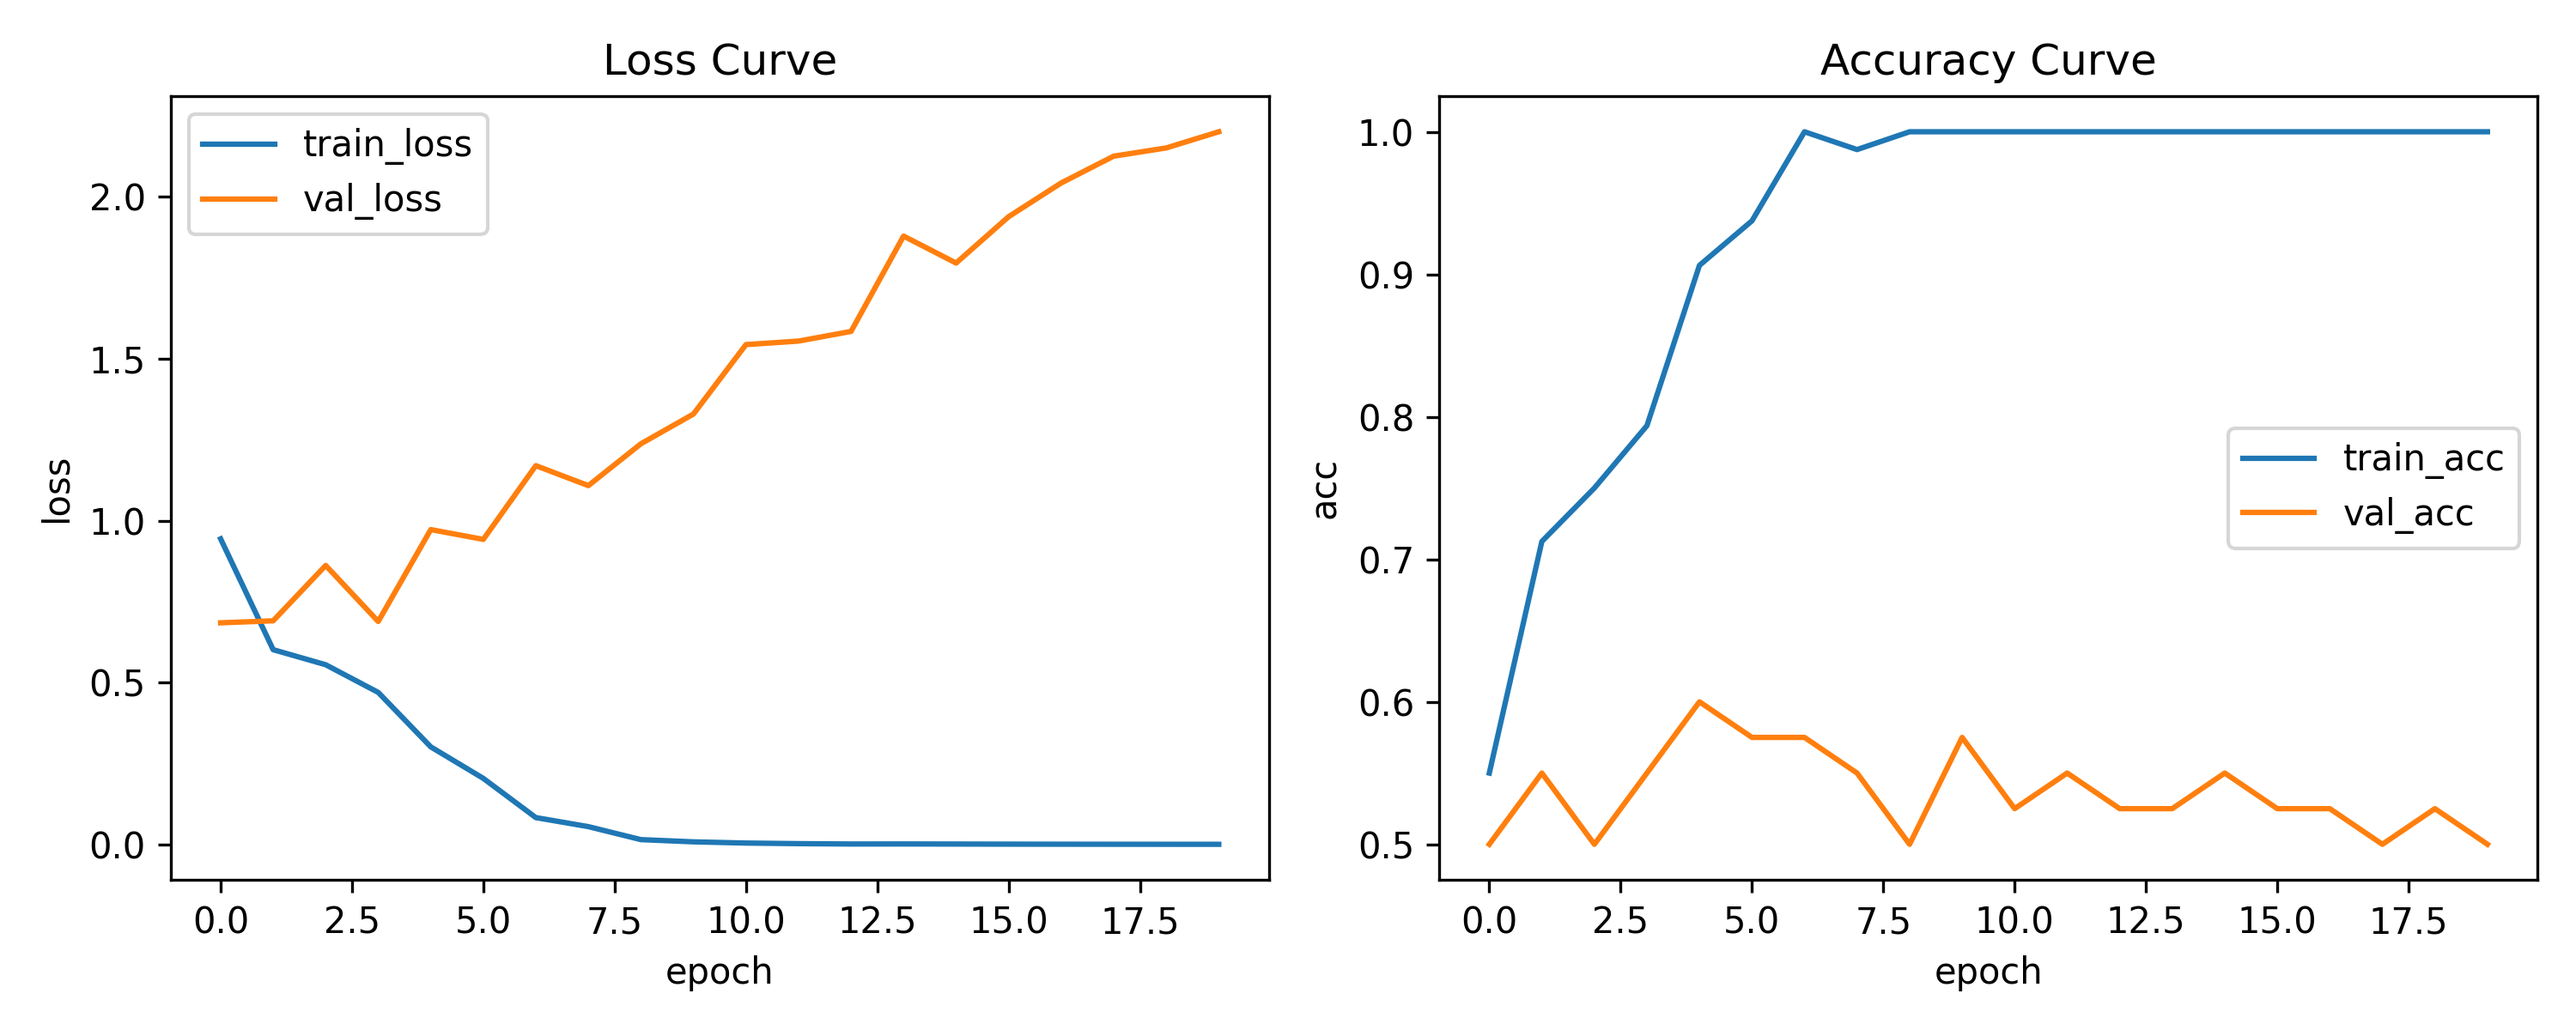
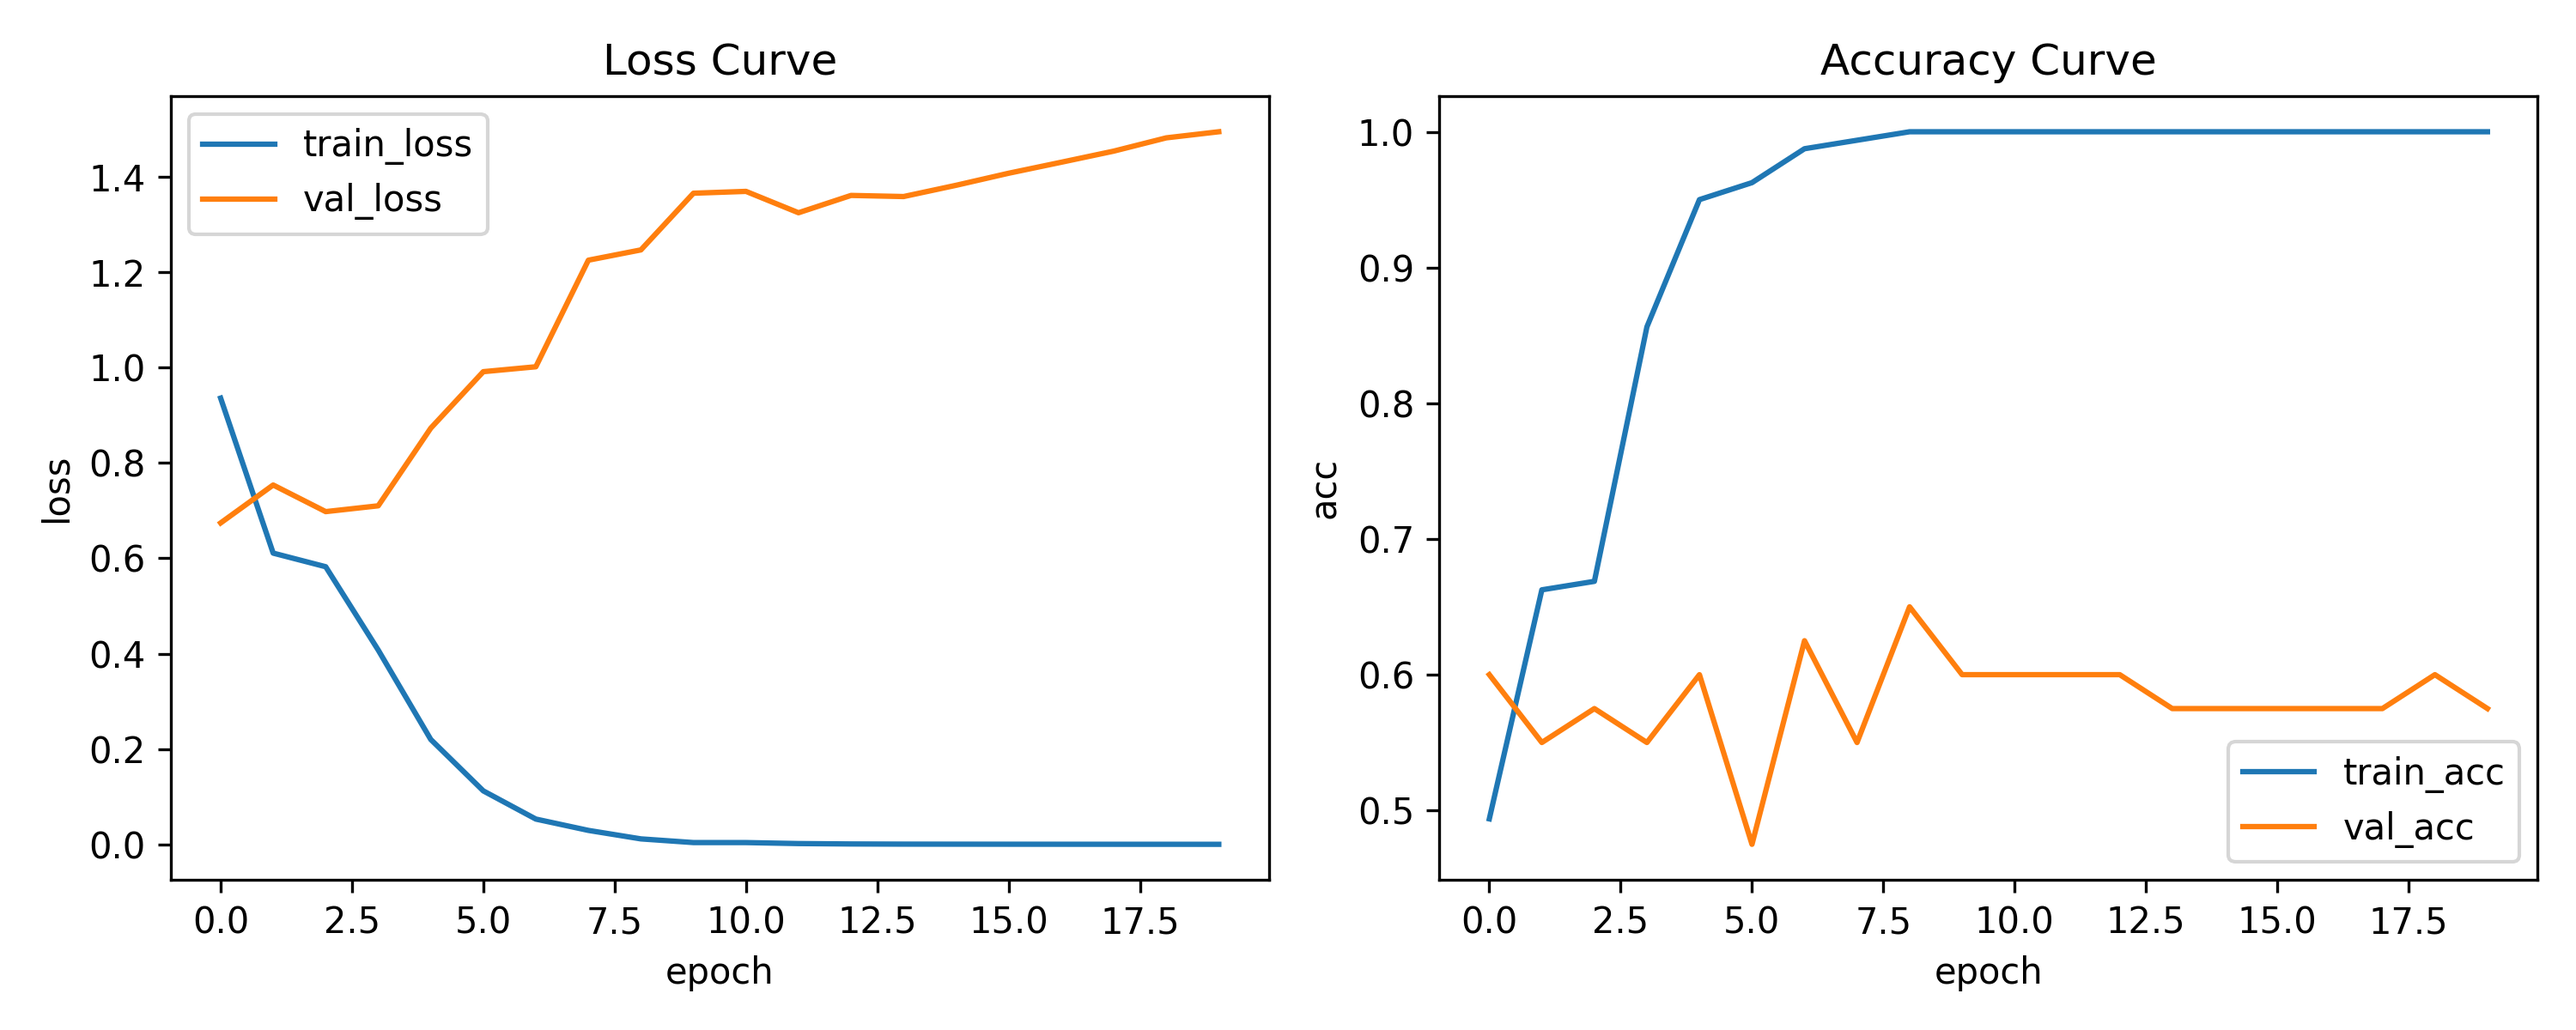
改进

diff --git a/3/code/main.py b/3/code/main.py
@@ -20,8 +20,16 @@ def main(args):
     )
 
     # 2. 定义图像预处理流水线 (transforms)
-    # 因为不同图片的尺寸长宽可能不统一，必须统一压缩成正方形 (128x128)，然后转换成 PyTorch 需要的张量矩阵 (Tensor)
-    data_transform = transforms.Compose([
+    # 【改动】对训练集加入数据增强，让模型在训练时看到更丰富的图像角度和方向，极大缓解过拟合
+    train_transform = transforms.Compose([
+        transforms.Resize([args.img_size, args.img_size]),
+        transforms.RandomHorizontalFlip(p=0.5), # 50%概率水平翻转
+        transforms.RandomRotation(15),          # 随机旋转±15度
+        transforms.ToTensor(),
+    ])
+    
+    # 验证集不需要数据增强，保持原样作为“公平考卷”
+    val_transform = transforms.Compose([
         transforms.Resize([args.img_size, args.img_size]),
         transforms.ToTensor(),
     ])
@@ -30,12 +38,12 @@ def main(args):
     train_dataset = MyDataSet(
         images_path=train_images_path,
         images_class=train_images_label,
-        transform=data_transform,
+        transform=train_transform,
     )
     val_dataset = MyDataSet(
         images_path=val_images_path,
         images_class=val_images_label,
-        transform=data_transform,
+        transform=val_transform,
     )
 
     # 计算出能用的多线程数：用于后台往显存里读写图片
@@ -65,8 +73,8 @@ def main(args):
 
     # 5. 模型实例化与优化器
     model = Net(num_classes=2).to(device)  # 把我们的“牛羊检测大模型”放进显卡大脑
-    # 选择 Adam 优化器（它就像一个带导航功能的油门，能在梯度下降时动态帮我们分配下降速度/步长）
-    optimizer = torch.optim.Adam(model.parameters(), lr=args.lr)
+    # 加入 weight_decay=1e-4 进行 L2 正则化，惩罚过大的权重值，进一步缓解过拟合
+    optimizer = torch.optim.Adam(model.parameters(), lr=args.lr, weight_decay=1e-4)
 
     # 6. 结果保存路径准备
     os.makedirs(args.output_dir, exist_ok=True)
@@ -113,7 +121,7 @@ def main(args):
         show_predictions(
             model,
             val_images_path,
-            data_transform, # 注意：实战看图时也要保证预处理手法一模一样哦
+            val_transform, # 统一使用验证集的 Transform 看效果
             class_json_path="class_indices.json",
             device=device,
             num=6
@@ -133,9 +141,9 @@ def parse_args():
         help="数据集根目录（内含 cow/ sheep 子文件夹）",
     )
     parser.add_argument("--img-size", type=int, default=128, help="输入图像尺寸")
-    parser.add_argument("--batch-size", type=int, default=8, help="batch size")
-    parser.add_argument("--epochs", type=int, default=20, help="训练轮数")
-    parser.add_argument("--lr", type=float, default=1e-3, help="学习率")
+    parser.add_argument("--batch-size", type=int, default=16, help="batch size")
+    parser.add_argument("--epochs", type=int, default=30, help="训练轮数")
+    parser.add_argument("--lr", type=float, default=1e-4, help="学习率")
     parser.add_argument("--val-rate", type=float, default=0.2, help="验证集比例")
     parser.add_argument(
         "--output-dir",

diff --git a/3/code/net_model.py b/3/code/net_model.py
@@ -23,6 +23,7 @@ class Net(nn.Module):
         self.classifier = nn.Sequential(
             nn.Linear(64 * 64 * 8, 1000),
             nn.ReLU(inplace=True),
+            nn.Dropout(p=0.5), # 加入 Dropout 层，随机让一半神经元失活，逼迫网络学习普遍规律
             nn.Linear(1000, num_classes),
         )
 
